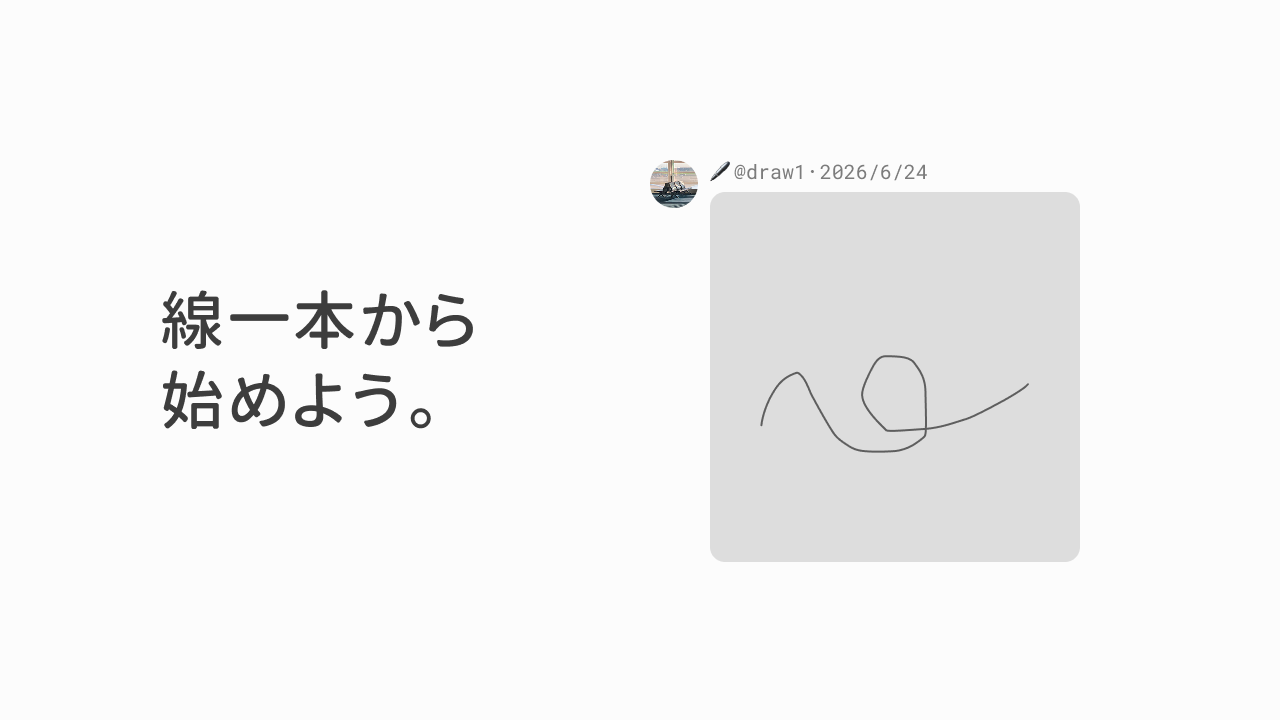
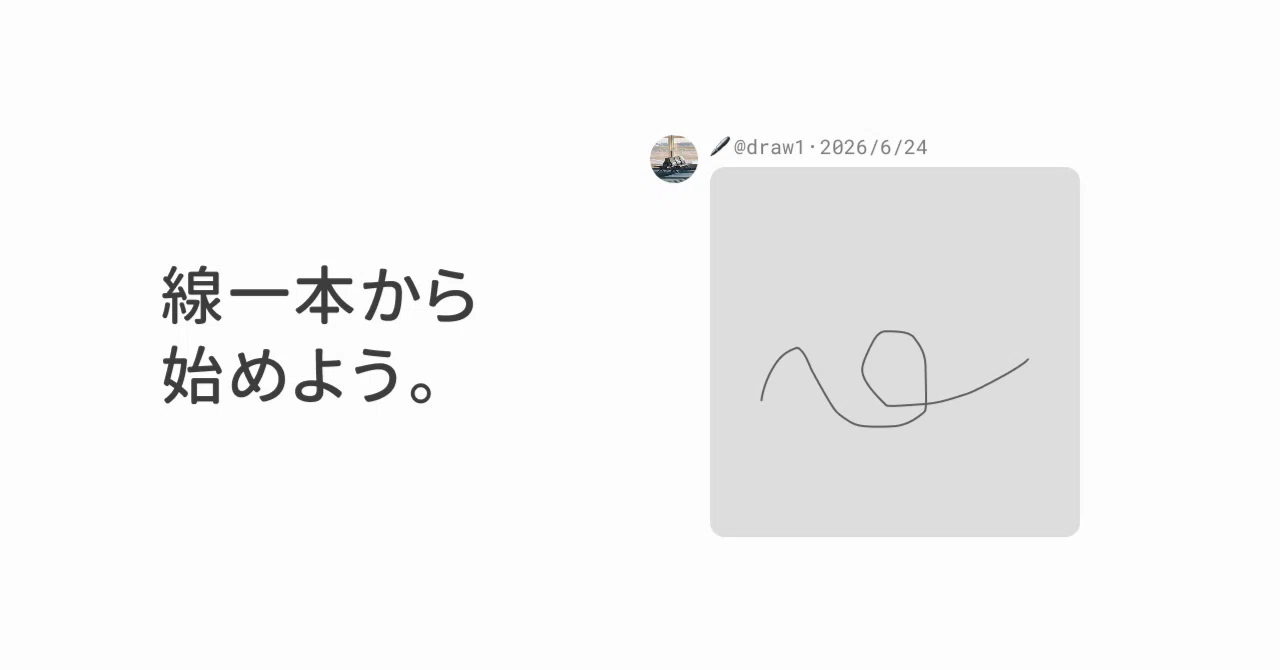
fix:tn

diff --git a/asset/js/blogrender.js b/asset/js/blogrender.js
@@ -16,7 +16,7 @@ async function renderBlog() {
 
       // HTMLのテンプレート
       const htmlString = `
-        <li class="blog-item" ${blog.category ? `data-category="${blog.category}"` : ''}>
+        <li class="blog-item , tabbody-elem" ${blog.category ? `data-category="${blog.category}"` : ''}>
           <article class="card">
             <a href="${blog.url}" class="card-link">
               ${labelHtml}

diff --git a/blog.html b/blog.html
@@ -69,7 +69,7 @@
           </ul>
         </div>
 
-      <ul class="grid grid-col-3 slidein-bottom" id ="blog-list-container">
+      <ul class="grid grid-col-3 slidein-bottom" id ="blog-list-container, tabbody-v">
         <!-- ブログ記事のカードがここにJavaScriptで挿入される -->
       </ul>
      